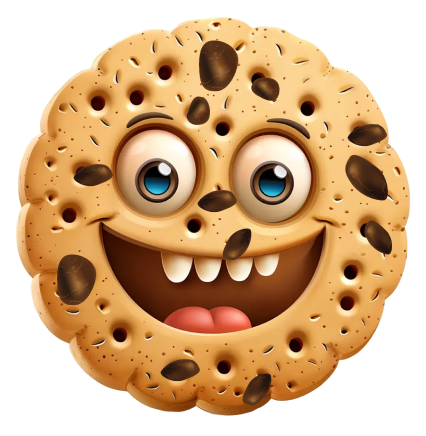
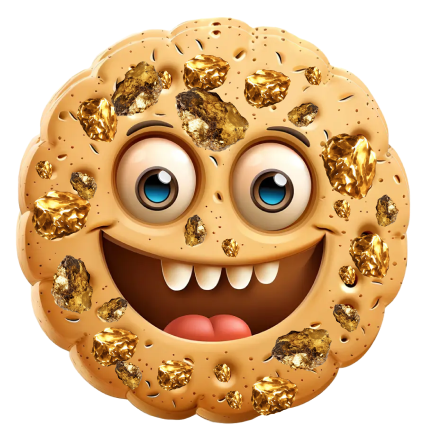
script revised

diff --git a/script.js b/script.js
@@ -7,6 +7,7 @@ let bonusCost = 200;
 let autoClickInterval;
 let bonusTimeout;
 let clickCounter = 0; // Nouveau compteur de clics
+let bonusActivationCounter = 0; // Nouveau compteur d'activations de bonus
 
 const scoreLabel = document.getElementById("scoreValue");
 const multiplierLabel = document.getElementById("multiplierValue");
@@ -19,28 +20,11 @@ const bonusButton = document.getElementById("bonusButton");
 //Amandine - COOKIE IMAGES - EVOLUTION
 const cookieImage = document.getElementById("cookieImage");
 
-const cookieImages = [
-  "image/cookie.image1.png",
-  "image/cookie.image2.png",
-  "image/cookie.image3.png",
-];
-
-// Amandine - Modif - Fonction pour gérer le clic sur le cookie
 document.getElementById("cookie").addEventListener("click", function () {
   score += clickValue * multiplier;
   clickCounter++;
   updateScore();
-  updateCookieImage();
 });
-
-function updateCookieImage() {
-  if (clickCounter > 0 && clickCounter % 100 === 0 && clickCounter <= 1000) {
-    const imageIndex = Math.floor(clickCounter / 100) - 1;
-    if (cookieImages[imageIndex]) {
-      cookieImage.querySelector("img").src = cookieImages[imageIndex];
-    }
-  }
-}
 
 // Buy multiplier
 multiplierButton.addEventListener("click", function () {
@@ -68,12 +52,16 @@ autoClickButton.addEventListener("click", function () {
   }
 });
 
-// Buy bonus
+// Amandine - modif - Buy bonus
 bonusButton.addEventListener("click", function () {
   if (score >= bonusCost) {
     score -= bonusCost;
     updateScore();
     activateBonus();
+    bonusButton.classList.add("animate");
+    setTimeout(() => {
+      bonusButton.classList.remove("animate");
+    }, 600); // 0.6s = 600ms
   } else {
     alert("Not enough cookies!");
   }
@@ -106,11 +94,47 @@ function activateBonus() {
   bonusLabel.textContent++;
   updateScore();
 
+  //Amandine - Change cookie image on bonus activation
+  bonusActivationCounter++;
+  changeCookieImageOnBonus("cookie");
+
   // Timer for bonus duration
   bonusTimeout = setTimeout(function () {
     clickValue /= 2; // Reset click value after bonus expires
     bonusLabel.textContent--;
   }, 30000);
+}
+
+// Amandine - modif - Buy bonus
+bonusButton.addEventListener("click", function () {
+  if (score >= bonusCost) {
+    score -= bonusCost;
+    updateScore();
+    activateBonus();
+    bonusButton.classList.add("animate");
+    setTimeout(() => {
+      bonusButton.classList.remove("animate");
+    }, 600); // 0.6s = 600ms
+  } else {
+    alert("Not enough cookies!");
+  }
+});
+
+//Amandine- Function change cookie image on bonus activation
+function changeCookieImageOnBonus(imageId) {
+  let imageUrl = "";
+  switch (bonusActivationCounter % 3) {
+    case 0:
+      imageUrl = "image/cookie.image1.png";
+      break;
+    case 1:
+      imageUrl = "image/cookie.image2.png";
+      break;
+    case 2:
+      imageUrl = "image/cookie.image3.png";
+      break;
+  }
+  document.getElementById(imageId).querySelector("img").src = imageUrl;
 }
 
 /* Disable buttons if not enough cookies

diff --git a/styles.css b/styles.css
@@ -37,3 +37,89 @@ body {
 .modal-body {
   font-size: 16px;
 }
+
+/*Amandine*/
+button#bonusButton.btn {
+  position: relative;
+  padding: 10px 22px;
+  background: #9a7d0a;
+  border-radius: 6px;
+  color: #fff;
+  border: none;
+  font-size: 18px;
+  font-weight: 400;
+  cursor: pointer;
+  transition: transform 0.2s ease;
+  box-shadow: 0 5px 10px rgba(0, 0, 0, 0.1);
+}
+
+#bonusButton:active {
+  transform: scale(0.96);
+}
+
+#bonusButton.animate::before,
+#bonusButton.animate::after {
+  content: "";
+  position: absolute;
+  left: 50%;
+  transform: translateX(-50%);
+  height: 200%;
+  width: 150%;
+  z-index: -1;
+  background-repeat: no-repeat;
+}
+
+#bonusButton.animate::before {
+  top: -100%;
+  background-image: radial-gradient(circle, #9a7d0a 20%, transparent 20%),
+    radial-gradient(circle, transparent 20%, #9a7d0a 20%, transparent 30%),
+    radial-gradient(circle, #9a7d0a 20%, transparent 20%),
+    radial-gradient(circle, transparent 10%, #9a7d0a 15%, transparent 20%),
+    radial-gradient(circle, #9a7d0a 20%, transparent 20%),
+    radial-gradient(circle, #9a7d0a 20%, transparent 20%),
+    radial-gradient(circle, #9a7d0a 20%, transparent 20%),
+    radial-gradient(circle, #9a7d0a 20%, transparent 20%);
+  background-size: 10% 10%, 20% 20%, 15% 20%, 20% 20%, 18% 18%, 10% 10%, 15% 15%,
+    18% 18%;
+  background-position: 50% 90%, 10% 90%, 10% 90%, 15% 90%, 25% 90%, 40% 90%,
+    55% 90%, 70% 90%;
+  animation: topBubbles 0.6s ease-in-out forwards;
+}
+
+@keyframes topBubbles {
+  50% {
+    background-position: 0% 80%, 0% 20%, 10% 40%, 20% 0%, 30% 30%, 22% 50%,
+      50% 50%, 65% 20%, 90% 30%;
+  }
+  100% {
+    background-position: 0% 70%, 0% 10%, 10% 30%, 20% -10%, 30% 20%, 22% 40%,
+      50% 40%, 65% 10%, 90% 20%;
+    background-size: 0% 0%, 0% 0%, 0% 0%, 0% 0%, 0% 0%, 0% 0%, 0% 0%;
+  }
+}
+
+#bonusButton.animate::after {
+  bottom: -100%;
+  background-image: radial-gradient(circle, #9a7d0a 20%, transparent 20%),
+    radial-gradient(circle, transparent 10%, #9a7d0a 15%, transparent 20%),
+    radial-gradient(circle, #9a7d0a 20%, transparent 20%),
+    radial-gradient(circle, #9a7d0a 20%, transparent 20%),
+    radial-gradient(circle, #9a7d0a 20%, transparent 20%),
+    radial-gradient(circle, #9a7d0a 20%, transparent 20%),
+    radial-gradient(circle, #9a7d0a 20%, transparent 20%);
+  background-size: 15% 15%, 20% 20%, 18% 18%, 20% 20%, 15% 15%, 20% 20%, 18% 18%;
+  background-position: 10% 0%, 30% 10%, 55% 0%, 70% 0%, 85% 0%, 70% 0%, 70% 0%;
+  animation: bottomBubbles 0.6s ease-in-out forwards;
+}
+
+@keyframes bottomBubbles {
+  50% {
+    background-position: 0% 80%, 20% 80%, 45% 60%, 60% 100%, 75% 70%, 95% 60%,
+      105% 0%;
+  }
+  100% {
+    background-position: 0% 90%, 20% 90%, 45% 70%, 60% 110%, 75% 80%, 95% 70%,
+      110% 10%;
+    background-size: 0% 0%, 0% 0%, 0% 0%, 0% 0%, 0% 0%, 0% 0%;
+  }
+}

diff --git a/index.html b/index.html
@@ -144,9 +144,7 @@
           </p>
         </div>
         <div class="mt-3">
-          <button id="bonusButton" class="btn btn-warning">
-            Bonus (200 cookies)
-          </button>
+          <button id="bonusButton" class="btn">Bonus (200 cookies)</button>
           <p id="bonusCounter">Bonus: <span id="bonusValue">0</span></p>
         </div>
       </div>
